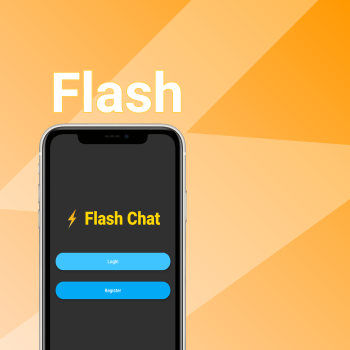
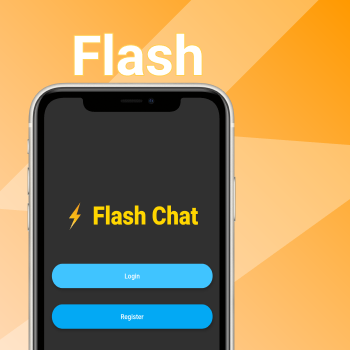
DONE Project Screen

diff --git a/src/utils/projectInfo.ts b/src/utils/projectInfo.ts
@@ -1,3 +1,4 @@
+import * as Image from '../utils/image'
 interface IProject {
     name: string;
     images: string[];
@@ -17,7 +18,9 @@ const DATA = [
 
 const Instacop: IProject = {
     name: "Instacop",
-    images: DATA,
+    images: [
+        Image.InstacopBanner
+    ],
     description: "Product ordering system for clothes shop.",
     technology: "Flutter - Dart, Firebase, Stripe.",
     isHaveSource: true,
@@ -28,7 +31,9 @@ const Instacop: IProject = {
 
 const Apollo: IProject = {
     name: "Apollo",
-    images: DATA,
+    images: [
+        Image.ApolloBanner
+    ],
     description: "Product ordering system for ebook shop",
     technology: "React Native - TypeScript",
     isHaveSource: true,
@@ -39,7 +44,9 @@ const Apollo: IProject = {
 
 const FlashChat: IProject = {
     name: "FlashChat",
-    images: DATA,
+    images: [
+        Image.FlashBanner
+    ],
     description: "An app for group chat",
     technology: "Flutter - Dart, Firebase,",
     isHaveSource: true,
@@ -49,33 +56,37 @@ const FlashChat: IProject = {
 }
 
 const ChatServiceMobile: IProject = {
-    name: "FlashChat",
-    images: DATA,
+    name: "MobiChat",
+    images: [
+
+    ],
     description: "An app help customer can create group chat room and personal chat room",
     technology: "React Native, ReactJS, NodeJs, Express, Socket.io, MongoDB, CosmosDB.",
     isHaveSource: true,
-    youTubeVideoId: "",
-    demoUrl: "",
+    youTubeVideoId: "qdygAJv3_yg",
+    demoUrl: "https://youtu.be/qdygAJv3_yg",
     githubUrl: "",
 }
 
 const ChatServiceWebsite: IProject = {
-    name: "FlashChat",
-    images: DATA,
+    name: "WebChat",
+    images: [
+        Image.WebChatBanner
+    ],
     description: "An app help customer can create group chat room and personal chat room",
     technology: "ReactJS, NodeJs, Express, Socket.io, MongoDB, CosmosDB.",
     isHaveSource: true,
-    youTubeVideoId: "",
-    demoUrl: "",
+    youTubeVideoId: "qdygAJv3_yg",
+    demoUrl: "https://www.youtube.com/watch?v=qdygAJv3_yg&feature=emb_title&ab_channel=NamNguyen",
     githubUrl: "",
 }
 
 const ProjectData: IProject[] = [
     Instacop,
     Apollo,
+    ChatServiceWebsite,
     FlashChat,
     ChatServiceMobile,
-    ChatServiceWebsite
 ];
 
-export default ProjectData;
+export default ProjectData; 

diff --git a/src/components/Modal/index.tsx b/src/components/Modal/index.tsx
@@ -96,7 +96,7 @@ const Link = styled.a`
     }
 `
 
-const items = DATA.map((item, index) => <ImageProject key={index} src={item} />)
+
 
 const settings = {
     dots: true,
@@ -115,6 +115,7 @@ interface IProjectModal {
 
 const ProjectModal: React.FC<IProjectModal> = (props) => {
 
+    const items = DATA.map((item, index) => <ImageProject key={index} src={item} />)
     return (
         <Container>
             <svg onClick={props.onClose} className="svgClose" xmlns="http://www.w3.org/2000/svg" viewBox= "0 0 25 25" stroke="currentColor">
@@ -127,7 +128,7 @@ const ProjectModal: React.FC<IProjectModal> = (props) => {
                 <SliderContainer>
                     <Slider {...settings}>
                         <IFrameProject src={`https://www.youtube.com/embed/${ProjectData[props.projectId].youTubeVideoId}`} frameBorder={0} allowFullScreen></IFrameProject>
-                        {items}
+                        {ProjectData[props.projectId].images.map((item, index) => <ImageProject key={index} src={item} />)}
                     </Slider>
                 </SliderContainer>
                 <InfoContainer>
@@ -137,9 +138,9 @@ const ProjectModal: React.FC<IProjectModal> = (props) => {
                     <TextInfo>
                     • Technologies: {ProjectData[props.projectId].technology}
                     </TextInfo>
-                    { !ProjectData[props.projectId].isHaveSource || <TextInfo>
-                    • Source: <Link href={ProjectData[props.projectId].githubUrl} >Github</Link> - <Link>Demo</Link>
-                    </TextInfo>}
+                    <TextInfo>
+                    • Source: {!ProjectData[props.projectId].githubUrl || <Link target="_blank" href={ProjectData[props.projectId].githubUrl} >Github</Link>} - {!ProjectData[props.projectId].demoUrl || <Link target="_blank" href={ProjectData[props.projectId].demoUrl}>Demo</Link>}
+                    </TextInfo>
                 </InfoContainer>
             </ProjectContainer>
         </Container>

diff --git a/src/screen/ProjectScreen/index.tsx b/src/screen/ProjectScreen/index.tsx
@@ -59,11 +59,11 @@ const ProjectScreen = () => {
             </Modal>
             <Tittle tittle="PROJECT"/>
             <ProjectContainer>
-                <CardProject onClick={() => handleCardClick(0)} title="Chat Mobile" description="React Native/TypeScript" url={ImageData.WebChat}/>
-                <CardProject title="Chat Website" description="ReactJs/TypeScript" url={ImageData.WebChat}/>
-                <CardProject title="Apollo" description="React Native/TypeScript" url={ImageData.Apollo}/>
-                <CardProject title="Instacop" description="Flutter/Dart/Firebase" url={ImageData.Instacop}/>
-                <CardProject title="Flash Chat" description="Flutter/Dart/Firebase" url={ImageData.FlashChat}/>
+                <CardProject onClick={() => handleCardClick(0)} title="Instacop" description="Flutter/Dart/Firebase" url={ImageData.Instacop}/>
+                <CardProject onClick={() => handleCardClick(1)} title="Apollo" description="React Native/TypeScript" url={ImageData.Apollo}/>
+                <CardProject onClick={() => handleCardClick(2)} title="Chat Website" description="ReactJs/TypeScript" url={ImageData.WebChat}/>
+                {/* <CardProject onClick={() => handleCardClick(0)} title="Chat Mobile" description="React Native/TypeScript" url={ImageData.WebChat}/> */}
+                <CardProject onClick={() => handleCardClick(3)} title="Flash Chat" description="Flutter/Dart/Firebase" url={ImageData.FlashChat}/>
             </ProjectContainer>
         </Container>
     )

diff --git a/src/utils/image.tsx b/src/utils/image.tsx
@@ -23,6 +23,12 @@ import Apollo from '../asset/project/apollo.png'
 import FlashChat from '../asset/project/flashChat.png'
 import WebChat from '../asset/project/webChat.png'
 
+// BANNER
+import InstacopBanner from '../asset/banner/instacop-banner.png'
+import ApolloBanner from '../asset/banner/apollo-banner-1.png'
+import FlashBanner from '../asset/banner/flash-banner.png'
+import WebChatBanner from '../asset/banner/webChat-banner.png'
+
 export {
     AndroidStudio,
     Express,
@@ -45,4 +51,8 @@ export {
     Apollo,
     WebChat,
     FlashChat,
+    InstacopBanner,
+    ApolloBanner,
+    FlashBanner,
+    WebChatBanner
 }

diff --git a/src/components/Tittle/index.tsx b/src/components/Tittle/index.tsx
@@ -25,6 +25,10 @@ const TittleTxt = styled.h1`
         opacity: 0.9;
         transition: all .2s ease-in-out;
     }
+
+    @media ${`(max-width: 500px)`}{
+        font-size: 30px;
+    }
 `
 const Tittle: React.FC<IProps> = (props) => {
     return (

diff --git a/src/screen/TechnicalScreen/index.tsx b/src/screen/TechnicalScreen/index.tsx
@@ -53,6 +53,10 @@ const TechContainer = styled.div`
     &:hover{
         box-shadow: 10px 10px 3px #00000090;
     }
+
+    @media ${`(max-width: 500px)`}{
+        width: 300px;
+    }
 `
 
 const TechListContainer = styled.div`
